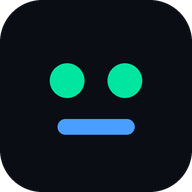
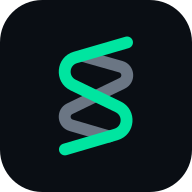
dashboard: the Strands mark in the header, not a robot emoji (U11)
The header wore an emoji, which means every OS drew a different vendor's
cartoon robot and none of them was this project. Swapped for the
official Strands Agents mark from docs/assets/strands-logo.svg, geometry
untouched.

Inlined as a component instead of an <img>: it paints on the first
frame (a logo that pops in later is exactly the jitter the zero-UI pass
is removing), it needs no network so it survives the PWA offline, and
its fills are CSS - the back strand is structure at 42% text, the front
strand carries the same --ok green that means 'the robot answered'
everywhere else on this dashboard, and prefers-contrast: more pushes
the back strand to full text colour.

The app icons wore the same cartoon: icon.svg, the three PNG sizes and
the two maskable ones are regenerated from the mark (maskable inset to
the 80% safe zone, verified by reading the PNG's own pixels: bbox
70,55-120,136 in a 192 canvas).

Changed region(s): [[0.25, 0.1875, 0.75, 0.8125]]

diff --git a/strands_robots/dashboard/frontend/src/components/StrandsMark.tsx b/strands_robots/dashboard/frontend/src/components/StrandsMark.tsx
@@ -1,0 +1,36 @@
+/**
+ * The Strands Agents mark: two interleaved strands, the front one live.
+ *
+ * Inlined rather than loaded as an <img> for three reasons that all matter on
+ * this dashboard: it renders on the first paint (a header that pops in later
+ * is the kind of jitter the zero-UI language is trying to remove), it needs no
+ * network so it survives the PWA running offline, and its colours are CSS so
+ * the mark can dim with the rest of the chrome instead of staying loud.
+ *
+ * Geometry is the official asset, untouched; only the fills are variables.
+ */
+export default function StrandsMark({ size = 22, title }: { size?: number; title?: string }) {
+  return (
+    <svg
+      className="mark"
+      width={(size * 290) / 463}
+      height={size}
+      viewBox="0 0 290 463"
+      fill="none"
+      xmlns="http://www.w3.org/2000/svg"
+      role={title ? 'img' : undefined}
+      aria-label={title}
+      aria-hidden={title ? undefined : true}
+      focusable="false"
+    >
+      <path
+        className="mark-back"
+        d="M97.2902 52.7884C85.0674 49.1667 72.2234 56.1389 68.6017 68.3616C64.9801 80.5843 71.9524 93.4283 84.1749 97.0501L235.117 139.775C245.223 142.769 246.357 156.628 236.874 161.226L32.546 260.291C-14.9439 283.316 -9.16107 352.74 41.4835 367.591L189.551 411.009L190.125 411.169C202.183 414.376 214.665 407.396 218.196 395.355C221.784 383.122 214.774 370.296 202.541 366.709L54.4738 323.291C44.3447 320.321 43.1879 306.436 52.6857 301.831L257.014 202.766C304.432 179.776 298.758 110.483 248.233 95.512L97.2902 52.7884Z"
+      />
+      <path
+        className="mark-front"
+        d="M259.147 0.981812C271.389 -2.57498 284.197 4.46571 287.754 16.7074C291.311 28.9492 284.27 41.757 272.028 45.3138L71.1727 103.671C40.7142 112.521 37.1976 154.262 65.7459 168.083L241.343 253.093C307.872 285.302 299.794 382.546 228.862 403.336L30.4041 461.502C18.1707 465.088 5.34708 458.078 1.76153 445.844C-1.8239 433.611 5.18637 420.787 17.4197 417.202L215.878 359.035C246.277 350.125 249.739 308.449 221.226 294.645L45.6297 209.635C-20.9834 177.386 -12.7772 79.9893 58.2928 59.3402L259.147 0.981812Z"
+      />
+    </svg>
+  )
+}

diff --git a/strands_robots/dashboard/frontend/src/styles.css b/strands_robots/dashboard/frontend/src/styles.css
@@ -161,7 +161,15 @@ body {
   border-bottom: 1px solid var(--border);
 }
 .brand { display: flex; align-items: center; gap: 10px; }
-.logo { font-size: 24px; }
+.logo { display: flex; align-items: center; }
+/* The mark's back strand is structure, the front one is the live signal, so it
+ * carries the same green that means "the robot answered" everywhere else. */
+.mark .mark-back { fill: color-mix(in srgb, var(--text) 42%, transparent); }
+.mark .mark-front { fill: var(--ok); }
+.brand:hover .mark .mark-front { filter: drop-shadow(0 0 6px color-mix(in srgb, var(--ok) 55%, transparent)); }
+@media (prefers-contrast: more) {
+  .mark .mark-back { fill: var(--text); }
+}
 .brand h1 { font-size: 15px; font-weight: 700; letter-spacing: .04em; }
 .brand .sub { font-size: var(--fs-tiny); color: var(--dim); font-family: var(--mono); }
 .brand .backend { opacity: .65; }

diff --git a/strands_robots/dashboard/frontend/src/components/FleetBar.tsx b/strands_robots/dashboard/frontend/src/components/FleetBar.tsx
@@ -1,6 +1,7 @@
 import type { MeshInfo } from '../types'
 import type { ConnState } from '../lib/useMesh'
 import { backendLabel } from '../lib/endpoints'
+import StrandsMark from './StrandsMark'
 
 const CONN_LABEL: Record<ConnState, string> = {
   open: 'LIVE',
@@ -38,7 +39,7 @@ export default function FleetBar({
   return (
     <header className="fleetbar">
       <div className="brand">
-        <span className="logo">🤖</span>
+        <span className="logo"><StrandsMark size={26} title="Strands Agents" /></span>
         <div>
           <h1>strands robots</h1>
           <div className="sub" title={`API: ${backendLabel()}`}>
